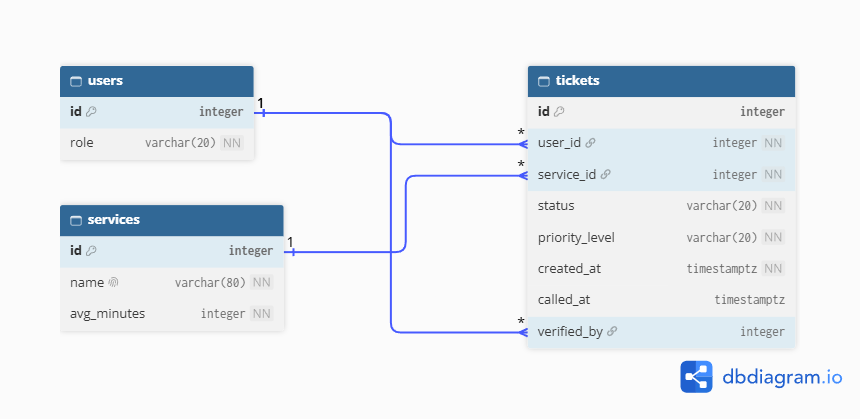
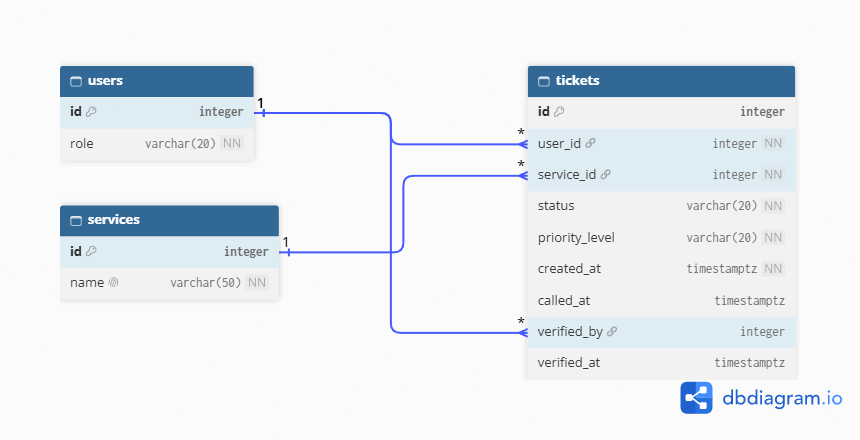
Self-review of my schema + changes on erd and schema.md

diff --git a/docs/week4/schema.md b/docs/week4/schema.md
@@ -10,7 +10,7 @@
 | MQ-05 | A customer can receive **audio chime** and **high-contrast screen call out**. *(Could, later)* | audio chime, high-contrast screen call out | *(triggered when tickets.status becomes `called`; no new column)* |
 | MQ-06 | A customer can **leave** the queue before being **called**. | leave, called | tickets.status (`left`), tickets.called_at |
 | MQ-07 | A **clerk/staff member** can **call** the next **waiting ticket** for a service. | clerk/staff member, waiting ticket, service | users.role, tickets.status (`waiting` → `called`), services |
-| MQ-08 | A clerk/staff member can mark a called **ticket** as **served**, **completed**, or **no-show**. | ticket, served, completed, no-show | tickets, tickets.status (`served`, `completed`, `no_show`) |
+| MQ-08 | A clerk/staff member can mark a called **ticket** as **served**, **completed**, or **skipped**. | ticket, served, completed, skipped | tickets, tickets.status (`served`, `completed`, `skipped`) |
 | MQ-09 | A clerk/staff member can **verify** **PWD/priority ticket** **details** and **status**. | PWD/priority ticket, details, status, verify | tickets, tickets.priority_level, tickets.status, tickets.verified_by, tickets.verified_at |
 | MQ-10 | A clerk/staff can manually **adjust or override** a ticket's **priority level** upon physically verifying a customer's **ID** at the counter. | priority level, ID, override | tickets.priority_level, tickets.verified_by, tickets.verified_at *(ID is checked in person, not stored)* |
 | MQ-11 | A clerk/staff can **export** end-of-day queue performance **metrics** (**average wait time**, **total served**, **priority ratio**, **total skipped**) to **CSV/PDF**. | metrics, average wait time, total served, priority ratio, total skipped | *(all computed)* from tickets.created_at, called_at, status, priority_level |
@@ -37,7 +37,7 @@
 | tickets | id | integer, generated | PRIMARY KEY | Used as the ticket number; generated, never reused |
 | tickets | user_id | integer | NOT NULL REFERENCES users(id) | No ticket for a missing customer |
 | tickets | service_id | integer | NOT NULL REFERENCES services(id) | No ticket for a missing service |
-| tickets | status | varchar(20) | NOT NULL DEFAULT 'waiting', CHECK (status IN ('waiting', 'called', 'served', 'completed', 'no_show', 'left')) | Only the states MQ-06 and MQ-08 describe |
+| tickets | status | varchar(20) | NOT NULL DEFAULT 'waiting', CHECK (status IN ('waiting', 'called', 'served', 'completed', 'skipped', 'left')) | Only the states MQ-06 and MQ-08 describe |
 | tickets | priority_level | varchar(20) | NOT NULL DEFAULT 'regular', CHECK (priority_level IN ('regular', 'pwd')) | Only the two customer types; `pwd` uses the priority lane; a clerk can override it (MQ-10) |
 | tickets | created_at | timestamptz | NOT NULL DEFAULT now() | Time zone safe; set by the database; used for ordering and wait time |
 | tickets | called_at | timestamptz | CHECK (called_at IS NULL OR called_at >= created_at) | Empty until called; cannot be before the ticket was created |
@@ -48,18 +48,21 @@
 ## ERD
 ![ERD](screenshots/erd.png)
 
-###Deleting rules:
--RESTRICT: deleting a user must not delete their tickets, because end-of-day metrics (MQ-11) are computed from past tickets.
+One user has many tickets. One service has many tickets. One user (a clerk) verifies many tickets. Each ticket belongs to exactly one user and exactly one service, and is verified by at most one user.
+
+### Deleting rules:
+- `RESTRICT`: deleting a user must not delete their tickets, because end-of-day metrics (MQ-11) are computed from past tickets.
 SET NULL is not possible here because user_id is NOT NULL.
 Ref: tickets.user_id > users.id [delete: restrict]
 
--RESTRICT: deleting a service must not delete its old tickets, because they are needed for reports (MQ-11).
+- `RESTRICT`: deleting a service must not delete its old tickets, because they are needed for reports (MQ-11).
 SET NULL is not possible here because service_id is NOT NULL.
 Ref: tickets.service_id > services.id [delete: restrict]
 
--RESTRICT: verified_by records which clerk checked the ID for a priority ticket (MQ-09, MQ-10). Deleting that clerk must not erase the record or the tickets, so the delete is blocked.
+- `RESTRICT`: verified_by records which clerk checked the ID for a priority ticket (MQ-09, MQ-10). Deleting that clerk must not erase the record or the tickets, so the delete is blocked.
 Ref: tickets.verified_by > users.id [delete: restrict]
 
+- No `Cascade` has been used.
 
 ## Check that it is normalized
 

diff --git a/docs/week4/schema-review.md b/docs/week4/schema-review.md
@@ -1,0 +1,33 @@
+# Schema Review
+
+### Works well
+
+**Works well:** There is no queue table and no stored position, wait time or total. A customer joining or leaving never forces other rows to be rewritten, and the end-of-day metrics (MQ-11) always match the tickets.
+
+
+**Works well:** Deleting a user or a service is blocked while tickets point to them, so the history behind MQ-11 cannot be lost by accident. 
+
+
+**Works well:** MQ-08 says a clerk marks a called ticket as served, completed or skipped, and MQ-11 reports "total skipped". The `skipped` status uses the same word in both, so the total is a simple count of `tickets.status = 'skipped'`.
+
+
+### Problems and Changes
+
+**Problem:** `Skipped` and `no_show` is redundant.
+**Changes:** Instead of `no_show`, I used the word `skipped`.
+
+
+**Problem:** No requirement in the table uses `avg_minutes` (nothing asks for an estimated wait).
+**Change:** Removed `avg_minutes` and its CHECK from `services` in `schema.md` and `schema.dbml`. `services` is now `id, name`. If a requirement for estimated wait time is added later, the column can come back then.
+
+
+**Problem:** Tapping the join button twice could create two waiting tickets for the same user and service. Nothing stopped it. 
+**Change:** Added a partial unique index, `UNIQUE (user_id, service_id) WHERE status = 'waiting'`, to `schema.md` and as a comment in `schema.dbml` (DBML cannot write the WHERE part). A user can still join the same service again after the earlier ticket is no longer waiting. This only works if each customer has one `users` row. If customers stay anonymous, the rule needs a different key.
+
+
+**Problem:** A ticket could be `called`, `served`, `completed` or `skipped` with an empty `called_at`, which would break the wait-time calculation. 
+**Change:** Added `CHECK (status NOT IN ('called', 'served', 'completed', 'skipped') OR called_at IS NOT NULL)` to `tickets` in both files. A `left` ticket can still have no `called_at`, because a customer can leave before being called (MQ-06).
+
+
+**Problem:** A ticket could have a verifier but no time, or a time but no verifier. 
+**Change:** Added `CHECK ((verified_by IS NULL) = (verified_at IS NULL))` to `tickets` in both files.
